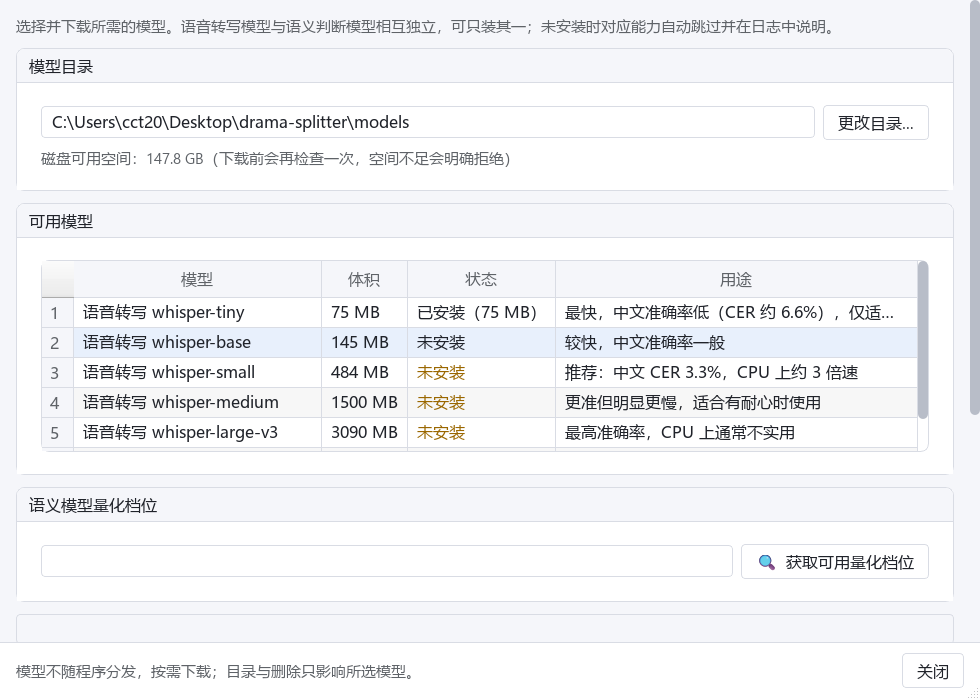
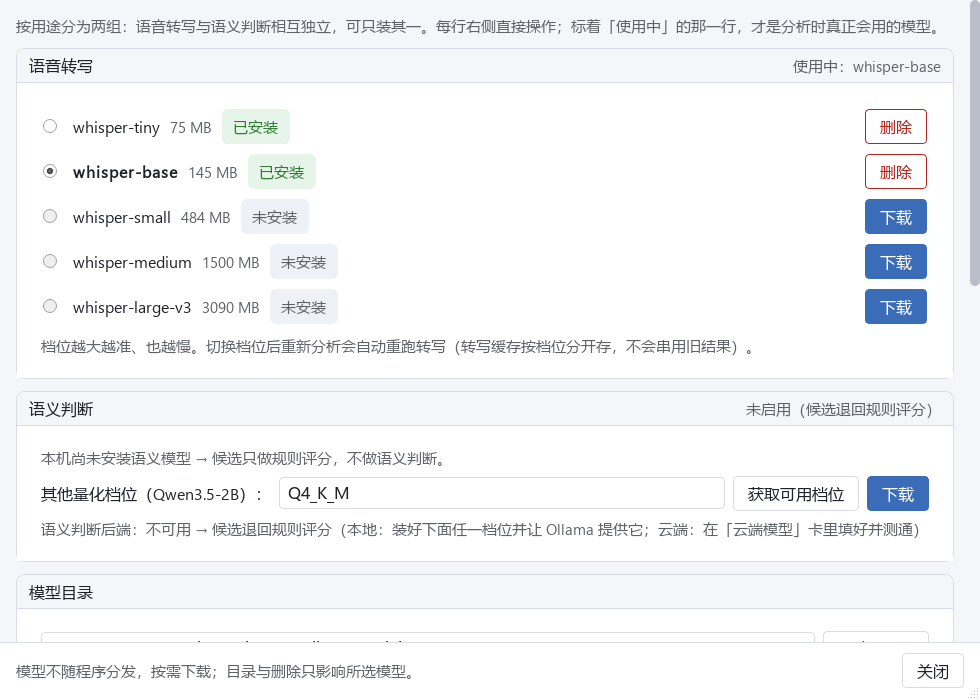
fix: 合并后的收尾——去掉重复的 _save_config / 测试类，README 与截图同步
- model_form：删掉云端块里同名 _save_config（它会覆盖带测试注入点的版本，导致「使用中」写不进配置）
- tests：TestWheelDoesNotChangeValues 在合并后出现两份，删掉被遮蔽的那份
- README：模型章节补「使用中」说明，测试计数 452 → 505（485 通过 / 20 跳过）
- 重录浅/深两套截图（06-模型 反映分组卡片与使用中）

diff --git a/tests/test_gui_smoke.py b/tests/test_gui_smoke.py
@@ -452,78 +452,6 @@ class TestAllowedCountInterval:
         )
 
 
-class TestWheelDoesNotChangeValues:
-    """滚轮不改值：数值框与下拉框把滚轮量交给滚动区，页面照常滚动。"""
-
-    @staticmethod
-    def _wheel_event(widget, angle_y: int = -120):
-        from PySide6.QtCore import QPoint, QPointF, Qt
-
-        center = QPointF(widget.rect().center())
-        return QWheelEvent(
-            center, center, QPoint(0, 0), QPoint(0, angle_y),
-            Qt.MouseButton.NoButton, Qt.KeyboardModifier.NoModifier,
-            Qt.ScrollPhase.NoScrollPhase, False,
-        )
-
-    def _scroll_area_with(self, qapp, widget):
-        from PySide6.QtWidgets import QLabel, QVBoxLayout, QWidget
-
-        from app.gui.widgets import scrollable
-
-        content = QWidget()
-        layout = QVBoxLayout(content)
-        layout.addWidget(widget)
-        for index in range(30):
-            layout.addWidget(QLabel(f"占位 {index}"))
-
-        area = scrollable(content)
-        area.resize(320, 200)
-        area.show()
-        qapp.processEvents()
-        return area
-
-    def test_spinbox_wheel_scrolls_instead_of_stepping(self, qapp):
-        from app.gui.widgets import NoWheelSpinBox
-
-        spin = NoWheelSpinBox()
-        spin.setRange(1, 9999)
-        spin.setValue(60)
-        area = self._scroll_area_with(qapp, spin)
-        try:
-            bar = area.verticalScrollBar()
-            bar.setValue(100)
-            before_value, before_scroll = spin.value(), bar.value()
-
-            qapp.sendEvent(spin, self._wheel_event(spin))
-            qapp.processEvents()
-
-            assert spin.value() == before_value, "滚轮不得改变数值"
-            assert bar.value() == before_scroll + 120, "滚轮量应交给滚动区（页面照常滚）"
-        finally:
-            area.close()
-
-    def test_combo_wheel_does_not_switch_option(self, qapp):
-        from app.gui.widgets import NoWheelComboBox
-
-        combo = NoWheelComboBox()
-        combo.addItems(["a", "b", "c"])
-        combo.setCurrentIndex(1)
-        area = self._scroll_area_with(qapp, combo)
-        try:
-            bar = area.verticalScrollBar()
-            bar.setValue(100)
-            before_index, before_scroll = combo.currentIndex(), bar.value()
-
-            qapp.sendEvent(combo, self._wheel_event(combo))
-            qapp.processEvents()
-
-            assert combo.currentIndex() == before_index, "滚轮不得切换下拉选项"
-            assert bar.value() == before_scroll + 120
-        finally:
-            area.close()
-
-
 class TestNoStrayTopLevelWindows:
     """回归：打开分集设置时不得弹出任何多余的小窗口。
 
@@ -1742,8 +1670,19 @@ class TestActiveModelWiring:
         AppConfig(asr_model_tier="tiny").save(patched_config)
         assert active_whisper_tier() == "tiny", "配置里的档位必须被分析线程采用"
 
-    def test_configured_judge_uses_pinned_model(self, tmp_path, patched_config, monkeypatch):
+    def test_configured_ollama_model_follows_pinned_key(self, tmp_path, patched_config):
         """语义模型的「使用中」要落到 Ollama 模型名上（命名规则与自动路径一致）。"""
+        from app.core.app_config import AppConfig
+        from app.gui import workers
+
+        _install_llm(tmp_path, "2B", "Q4_K_M")
+        AppConfig(
+            models_dir=str(tmp_path), llm_model_key="llm:2B:Q4_K_M"
+        ).save(patched_config)
+        assert workers.configured_ollama_model() == "qwen3.5-2b-judge"
+
+    def test_pinned_model_reaches_the_judge_selector(self, tmp_path, patched_config, monkeypatch):
+        """「使用中」不能只停在界面：select_judge 必须收到同一个 Ollama 名字。"""
         from app.core import semantic
         from app.core.app_config import AppConfig
         from app.gui import workers
@@ -1755,30 +1694,23 @@ class TestActiveModelWiring:
 
         seen = {}
 
-        def fake_create_judge(*, ollama_model=None, model_dir=None):
+        def fake_local_judge(*, ollama_model=None, model_dir=None):
             seen["model"] = ollama_model
             return None
 
-        monkeypatch.setattr(semantic, "create_judge", fake_create_judge)
-        workers.create_configured_judge()
+        # select_judge 在本地分支上调 local_judge（进程内 llama.cpp → Ollama）
+        monkeypatch.setattr(semantic, "local_judge", fake_local_judge)
+        semantic.select_judge(
+            AppConfig.load(), ollama_model=workers.configured_ollama_model()
+        )
         assert seen["model"] == "qwen3.5-2b-judge"
 
-    def test_missing_pinned_model_falls_back_to_auto(self, tmp_path, patched_config, monkeypatch):
+    def test_missing_pinned_model_falls_back_to_auto(self, tmp_path, patched_config):
         """指定的档位被删掉后不能卡死：退回自动规则（日志会如实报出实际用的是谁）。"""
-        from app.core import semantic
         from app.core.app_config import AppConfig
         from app.gui import workers
 
         AppConfig(
             models_dir=str(tmp_path), llm_model_key="llm:2B:Q8_0"
         ).save(patched_config)
-
-        seen = {}
-
-        def fake_create_judge(*, ollama_model=None, model_dir=None):
-            seen["model"] = ollama_model
-            return None
-
-        monkeypatch.setattr(semantic, "create_judge", fake_create_judge)
-        workers.create_configured_judge()
-        assert seen["model"] is None, "未安装时应退回自动选择"
+        assert workers.configured_ollama_model() is None, "未安装时应退回自动选择"

diff --git a/tools/gui_smoke.py b/tools/gui_smoke.py
@@ -328,9 +328,10 @@ def main() -> int:
     assert len([row for row in rows if row["in_use"] and row["kind"] == "llm"]) <= 1, (
         "语义组「使用中」最多一个"
     )
-    print(f"  使用中：{models.asr_status.text()}")
+    # 标签文本自带"使用中：/语义判断后端："前缀，这里不要再加一次
+    print(f"  {models.asr_status.text()}")
     print(f"          {models.llm_status.text()}")
-    print(f"  推理栈：{models.stack_label.text()}")
+    print(f"  {models.stack_label.text()}")
     installed = [row["label"] for row in rows if row["installed"]]
     if installed:
         print(f"  已安装模型：{'、'.join(installed)}")

diff --git a/app/gui/panes/model_form.py b/app/gui/panes/model_form.py
@@ -1,4 +1,4 @@
-"""模型表单：按用途分组的下载 / 删除 / 「使用中」切换。
+"""模型表单：按用途分组的下载 / 删除 / 「使用中」切换。
 
 界面为什么这样组织
 ------------------
@@ -881,12 +881,6 @@ class ModelForm(QWidget):
         prefs[capability] = backend
         self._config.backend_prefs = prefs
         self._save_config()
-
-    def _save_config(self) -> None:
-        try:
-            self._config.save()
-        except OSError as exc:
-            self._append(f"配置写入失败：{exc}", "error")
 
     def _refresh_cloud_hint(self) -> None:
         profile = self._cloud_profile()

diff --git a/README.md b/README.md
@@ -56,6 +56,12 @@
 
 界面提供：
 
+- **按用途分成两组卡片**（语音转写 / 语义判断），每行自带动作按钮——未装→下载、
+  已装→删除，不需要"先选中一行再去点底部按钮"；
+- **「使用中」可切换**：每行一个圆钮（仅已安装行可点），标着「使用中」的那一个
+  才是分析时真正会用的模型。转写档位与语义档位都记进 `config.json`，
+  重启后仍然生效；组标题右侧写明"使用中：whisper-small"，若它没装会红字提示
+  "分析会跳过转写"（不静默换档）；
 - **每个模型的实测体积与安装状态**（已安装 / 不完整 / 未安装）；
 - **模型目录可更改并记住**（默认 exe/项目根下的 `models/`；环境变量
   `DRAMA_MODELS_DIR` 优先级更高）；
@@ -64,6 +70,8 @@
 - **删除**只删该模型自己的目录。
 
 两类模型相互独立，可只装其一；未安装时对应能力自动跳过并在日志中说明原因。
+语义判断的「使用中」只在本地路径生效（走 Ollama / 进程内 llama.cpp）；
+若把该项能力切到云端，则由厂商 API 承担，本地档位只在该能力回退本地时才用得上。
 
 ### 云端模型（厂商 API，默认关闭）
 
@@ -212,7 +220,7 @@ python -m venv .venv
 ## 验证
 
 ```bash
-# 单元与端到端测试（452 项；缺合成语音素材 / whisper 模型 / LLM 模型时按环境跳过）
+# 单元与端到端测试（505 项：485 通过 / 20 项按环境跳过——缺合成语音素材 / whisper 模型 / LLM 模型时）
 .venv/Scripts/python.exe -m pytest tests/ -q
 
 # 界面全链路冒烟（离屏运行，含真实编码与逐帧校验）
@@ -361,7 +369,7 @@ tools/             开发与验证工具
   gui_smoke.py       界面全链路冒烟
   build_package.py   打包与自检
   diagnose_*.py      切帧行为诊断（下述三个坑的取证过程）
-tests/             452 项自动化测试（18 个文件；缺可选依赖时按环境跳过，不静默假通过）
+tests/             505 项自动化测试（18 个文件：485 通过 / 20 按环境跳过，不静默假通过）
 testdata/          合成素材（不入版本库）
 ```
 
